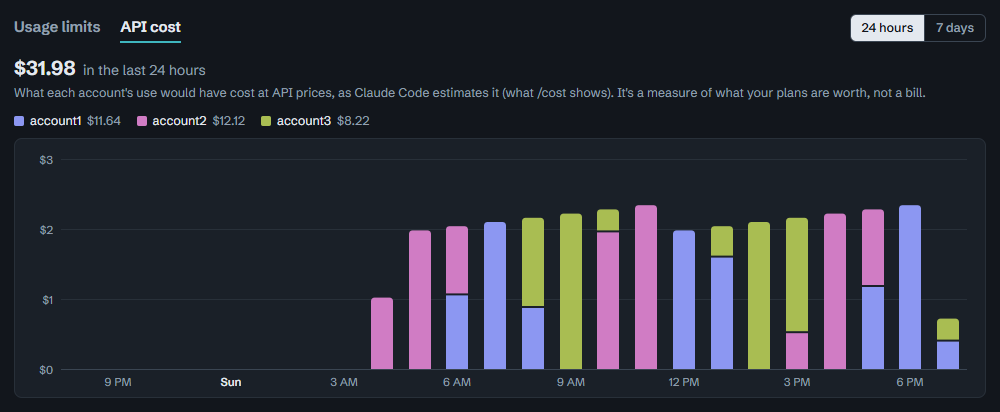
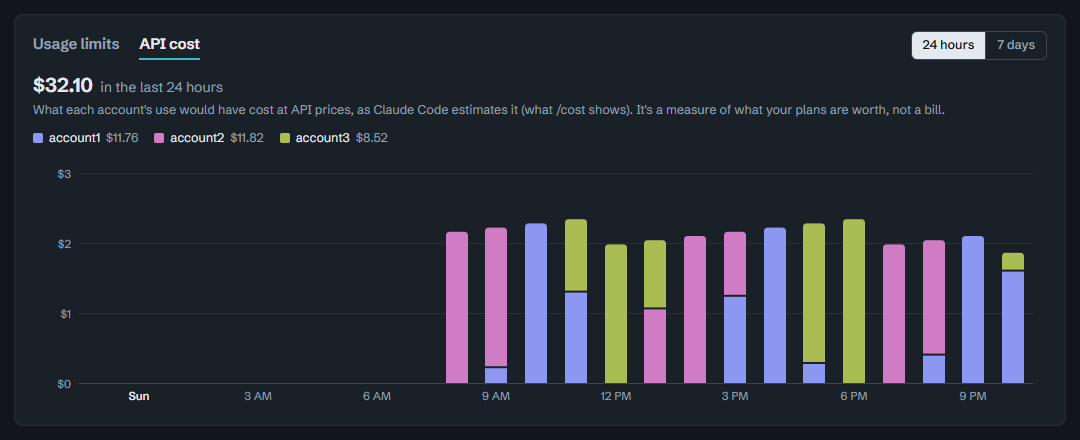
docs: describe the plan and the new layout, and retake the screenshots

diff --git a/docs/specs/2026-10-24-cc-rotate.md b/docs/specs/2026-10-24-cc-rotate.md
@@ -355,7 +355,7 @@ The snapshot lists every account in pick order with a short reason ("no weekly l
 
 What an account with a weekly limit has not used at its weekly reset is lost, and it can only be used as fast as its 5-hour windows let it, while the user works.
 So an account moves ahead (`budget::expiring`) once its budget would not fit in the time left otherwise, and not before: until then it stays in reserve for when every other account is at a limit.
-`use_expiring_weekly` (on by default) turns this on, and an account's `use_expiring` (on by default; `cc-rotate-ctl use-before-reset`, the More dialog) leaves that account out: it is never moved ahead, and its hours do not count against the others', since its budget is not planned to be spent early.
+`use_expiring_weekly` (on by default) turns this on, and an account's `use_expiring` (on by default; `cc-rotate-ctl use-before-reset`, the account page) leaves that account out: it is never moved ahead, and its hours do not count against the others', since its budget is not planned to be spent early.
 
 Per account with a weekly limit on all models, not left out, parked or active and not on hold, whose weekly window has not reset:
 
@@ -384,7 +384,7 @@ Learning reads weeks of readings, so it runs off the status line: before a swap,
 The guesses err early: a cheaper window and a slower pace mean more hours needed.
 The ranking reason says "weekly budget expires in 1d 4h with 45% left".
 
-`weekly_cap` (per account, `cc-rotate-ctl weekly-cap`, the More dialog) lowers that account's weekly thresholds below `swap_threshold_7d`, so rotation stops using it there and leaves the rest of its week to the user; budgets, and the dashboard's weekly budget left, are counted up to it.
+`weekly_cap` (per account, `cc-rotate-ctl weekly-cap`, the account page) lowers that account's weekly thresholds below `swap_threshold_7d`, so rotation stops using it there and leaves the rest of its week to the user; budgets, and the dashboard's weekly budget left, are counted up to it.
 It changes weekly windows only, not the stricter threshold of windows of an unknown kind.
 
 ### 7.5 How long the pool lasts
@@ -398,12 +398,15 @@ While an account is in use, the snapshot carries a forecast (`forecast::forecast
   There is no forecast while the use started less than 15 minutes ago, shows nothing, or the pool is already out (the dashboard says so with its own banner).
 - The pool is played forward in 5-minute steps for up to 24 hours with the real pick order (`scheduler::pick`, expiring budgets included): the account in use spends `pace * five_per_hour` 5-hour points an hour and `weekly_per_5h` weekly points for each, a limit hands over to the next pick, an account that may have a weekly limit gives way to one without as soon as one is ready (`scheduler::switch_back_target`, without the cooldown), a 5-hour window starts with its first use and resets 5 hours later, a weekly one resets a week after its reset.
 - The first step with no account left is `runs_out_at`; the earliest reset of a usable account after it is `free_again_at`.
+- Play goes on past that point, the way sessions stopped at a limit pick up again (section 21): steps with no account left use nothing, and the first account to free up takes over.
+- Every stretch an account is in use is a `Turn` in `plan`, oldest first: the account, from and to (epoch seconds), and `rests_until`, when it is usable again if the turn ended at a limit (none when it gave way to an account without a weekly limit, or the horizon ended it).
+  The first turn starts now; gaps between turns are times with no account left.
 
-The dashboard shows "At this pace: all at a limit by 3:10 PM, one frees up at 4:30 PM" (or "room for the next 24 hours"), `cc-rotate-ctl status` a line to the same effect, and the app notifies once when the pool would run out within the hour, again only after a forecast has shown room for at least two hours since, or a break from work left no forecast while the pool was not out.
+The dashboard draws the plan (section 11) under a headline ("Covered for the next 24 hours", or "Runs out around 3:10 PM" with when the first account frees up), `cc-rotate-ctl status` a line to the same effect, and the app notifies once when the pool would run out within the hour, again only after a forecast has shown room for at least two hours since, or a break from work left no forecast while the pool was not out.
 
 ### 7.6 Usage history
 
-`cc-rotate-ctl report [--weeks N] [--json]` (N from 1 to 52, default 4) and the account dialog (section 11) show how much use each account got, from the recorded samples only (`history` in ccr-core).
+`cc-rotate-ctl report [--weeks N] [--json]` (N from 1 to 52, default 4) and the account page (section 11) show how much use each account got, from the recorded samples only (`history` in ccr-core).
 Samples older than `sample_retention_days` do not count, even before the next prune removes them.
 
 - **Weekly windows:** for every all-models weekly window (`seven_day`) that reset in the last N weeks, the highest percentage over its samples, how many samples reported it, and when it reset.
@@ -511,16 +514,35 @@ The UI is TypeScript built with Vite; its charts are SVG it draws itself, with n
 Light and dark themes follow the system.
 UI copy uses no em dashes.
 
+The window has a sidebar and a page.
+The sidebar lists the pages (Overview, Activity with the swaps of the last 24 hours, API cost, Settings), then every account in the user's order: its color, label, state ("In use", "Ready", "Next", the time it is back from a limit, "Paused", "Sign in"), and a thin bar of its 5-hour window left; a + adds an account.
+Each page has a header with its title and actions, and a banner under it for a swap left unsettled, any `needs_login`, sessions waiting at a limit, `pool_exhausted` (on pages other than the overview, whose headline says it), or sign-ins ending soon.
+
+Order: dragging an account by its handle, in the sidebar or the plan, reorders the accounts; a focused handle moves with the arrow keys (Home and End for first and last), and the account page has Move up and Move down.
+The drag uses pointer events rather than HTML drag and drop, which the platform webviews handle inconsistently.
+The new order shows at once and is saved in the background, one save after another.
+
 Views:
 
-- **Pool header:** active account, the next pick with its reason, weekly headroom (summed weekly percentage remaining over usable accounts with a weekly limit) and the number without one, swaps in the last 24 hours, and a warning banner for `pool_exhausted` or any `needs_login`.
-- **Accounts:** one row per account in the user's order, with a drag handle, label, plan ("Max 5x", "Max 20x", "Team", "Team 5x", "Pro", else the raw subscription type), email, state badge, 5-hour and weekly meters with reset countdowns ("No weekly limit" when it has none), model-scoped windows, and last-sample age.
-  Dragging a handle reorders the accounts; a focused handle moves with the arrow keys (Home and End for first and last), and the account dialog has Move up and Move down.
-  The drag uses pointer events rather than HTML drag and drop, which the platform webviews handle inconsistently.
-  Row actions: Use now, Pause or Resume, Check usage, Sign in again, the weekly limit override (detect, has one, none), Remove.
-  Each row says where its latest reading came from ("updated 5m ago", "updated 5m ago from work", "checked 5m ago").
-  The account dialog shows **Recent weeks** (section 7.6), newest first: the highest usage of the last 4 weekly windows that closed ("34%, 12%, 50%"), or for an account without a weekly limit, how many 5-hour windows reached the limit in each of the last 4 full calendar weeks ("3 of 12, 9 of 9"); thin entries are dimmed and say why in a tooltip.
-  The read-only `usage_history` command reads it when the dialog opens, so the snapshot stays as cheap as before.
+- **Overview:** the active account and since when in the header, with Swap now and Add account.
+  A headline from the forecast (section 7.5): "Covered for the next 24 hours", "Runs out around 3:10 PM", "Every account is at a limit", "Using main" while no pace is known yet, or "No account in use"; under it, in a sentence or two, when the active account reaches its swap point and which accounts take turns after it.
+  Then the **plan**: the 12 hours from the start of the current hour, one row per account in the user's order.
+  A row has a drag handle, the account's color, label and plan ("Max 5x", "Max 20x", "Team", "Team 5x", "Pro", else the raw subscription type), a state line ("In use, 8% of 5 hours used", "Back 1:35 AM", "Ready, 9% of its week used", "Next", "Paused", "Signed out"), and its lane.
+  The lane draws the forecast's turns: the active account's as a solid bar from when it was swapped in, later ones as tinted bars with their times ("1:06 AM to 3:46 AM"), and each wait for a limit to reset as a hatched bar ("back at 3:25 AM"); an account at a limit now is hatched until it is usable again.
+  Each bar shows the longest label that fits it, measured after layout and again when the window is resized.
+  A line marks now, hour lines run behind the lanes, and a band across every lane marks a stretch with no account left.
+  A lane with nothing in it says why: not needed before the end of the plan, paused, signed out, or the reason it is not available.
+  Without a forecast, the active account's bar runs from when it was swapped in to now, and accounts at a limit are hatched until they are back.
+  Rows offer Use now (on hover), Resume, or Sign in; clicking an account opens its page.
+  Under the plan: a key to the bars, how cc-rotate uses the order as the settings make it, and the weekly budget left (summed weekly percentage remaining over usable accounts with a weekly limit, in accounts).
+  Then the charts, and the latest activity with a link to the Activity page.
+- **Account page:** the label, plan, state and email in the header, with Use now, Pause or Resume, Check usage, and Sign in again.
+  The 5-hour and weekly meters, each with the swap threshold marked and when it resets ("No weekly limit" when it has none), and model-scoped windows.
+  Details: where its latest reading came from ("updated 5m ago", "updated 5m ago from work", "checked 5m ago"), organization, **Recent weeks**, **API value**, extra usage, its place in the user's order with Move up and Move down, its place in the pick order with the reason, when its login was updated and its sign-in ends, its usage checks, and its warm-ups (section 23).
+  **Recent weeks** (section 7.6), newest first: the highest usage of the last 4 weekly windows that closed ("34%, 12%, 50%"), or for an account without a weekly limit, how many 5-hour windows reached the limit in each of the last 4 full calendar weeks ("3 of 12, 9 of 9"); thin entries are dimmed and say why in a tooltip.
+  The read-only `usage_history` command reads it when the page opens, so the snapshot stays as cheap as before.
+  Its settings: label, the weekly limit override (detect, has one, none; saved when picked), the weekly cap, use before reset, keep the 5-hour window running, and Remove account (asked twice, and not for the active account).
+  The settings are built when the page opens, so a refresh never undoes what is being typed.
 - **Charts:** a panel with two tabs, **Usage limits** and **API cost**, each over the last 24 hours or 7 days.
   Each says in a line what it shows, has a legend naming every account by its color, and shows the values under the pointer in a tooltip.
   - **Usage limits:** how much of each account's weekly or 5-hour limit was used, one stepped line per account (0 to 100%).
@@ -534,9 +556,10 @@ Views:
   - **API cost:** what each account's use would have cost at API prices (section 22.1), as bars stacked per account: one per hour over the last 24 hours (the current hour so far included), one per local day over the last 7 days (today so far included).
     It leads with the period's total ("$32.34 in the last 24 hours") and the legend gives each account's share; with nothing counted in the period it says so instead of drawing empty bars.
     The read-only `costs` command returns the hourly buckets (`account_costs`) from the hour holding a given time on; an hour's cost goes to the day its hour starts in.
-- **Events:** filterable log of swaps, skips, logins, syncs and errors.
+- **API cost page:** the API cost chart alone, and a table of each account's API value over the last 24 hours, 7 days and 30 days, with the totals.
+- **Activity:** the log of swaps, logins, problems and setting changes by day; renewals, skipped swaps, version notes, warm-ups and reorders show when asked for.
 - **Login:** the section 10 flow in a dialog with live status (waiting for browser, received, imported, failed).
-- **Settings:** `doctor` results (section 12), the settings, Claude Code version, and the store path.
+- **Settings:** the settings in groups (when to swap, which account comes next, usage checks and sign-ins, start at sign-in), `doctor` results (section 12), the app and Claude Code versions, and the profile and data folders.
 
 ### 11.1 In the terminal
 
@@ -878,7 +901,7 @@ The account is:
 
 A process's first total counts whole only when its session was never seen and has run under a minute (`total_duration_ms`); otherwise it is only where counting starts, since the process carries what the session spent before (resumed or forked, with the total and run time it had, or running before cc-rotate counted).
 A total below the last one (`/login`) is also only where counting goes on from.
-`history` sums the buckets per calendar week (`api_value_usd`); `cc-rotate-ctl report` prints the current week and the period, and the app's More dialog the last 4 weeks.
+`history` sums the buckets per calendar week (`api_value_usd`); `cc-rotate-ctl report` prints the current week and the period, and the app's account page the last 4 weeks.
 The app's **API cost** chart (section 11) shows the buckets themselves, per hour over the last 24 hours and per day over the last 7, stacked per account.
 These tables, with `session_processes` and `session_readings`, are pruned with the samples (`sample_retention_days`).
 Removing an account removes its `account_costs` rows with it, so its past API value is gone from the report and the charts.
@@ -887,7 +910,7 @@ Removing an account removes its `account_costs` rows with it, so its past API va
 
 A usage report's `extra_usage` (F17's body) has `is_enabled` (false while extra usage cannot cover requests: off, or its monthly limit reached), `monthly_limit`, `used_credits` and `utilization`, amounts in minor units of `currency` (cents for USD), as Claude Code's own schema documents.
 Every report cc-rotate reads (a usage check, a confirmation, another profile's cache, sections 9.1 and 20) records it per account (`extra_usage`), a newer one replacing an older one.
-`status`, the snapshot and the More dialog show it.
+`status`, the snapshot and the account page show it.
 
 The account in use runs on paid extra usage when the scheduler picks no other account, a limit that applies to it is used up (at 99.5% or more, not merely past cc-rotate's threshold), and its latest report says extra usage is on.
 That report can be old, since the account in use is only read by a confirmation (section 20.4): when it is older than `usage_check_max_age_s`, the status line asks for a confirmation (at most every 10 minutes, with usage checks on) in place of a swap that has nowhere to go, though never of a swap away from paying, and the warning says when it was read.
@@ -900,7 +923,7 @@ An account whose extra usage was never read is not taken for one without it.
 
 A 5-hour window starts at an account's first request, rounded down to 10 minutes, and resets 5 hours later (section 7.2).
 An account with no window running starts its 5 hours only when rotation reaches it, so it is ready again later than it would be with a window that started earlier.
-For accounts the user opted in (`keep_running` on `accounts`, schema 8, off by default; the account's More dialog, `cc-rotate-ctl keep-running`), the app starts the next window as soon as the last one ends while the account is not in use.
+For accounts the user opted in (`keep_running` on `accounts`, schema 8, off by default; the account page, `cc-rotate-ctl keep-running`), the app starts the next window as soon as the last one ends while the account is not in use.
 Simulated over 28 days of bursty use, starting every account's window at its reset served as much as a schedule that knew the future, 1 to 7 points more of the demand than letting windows start with use, and only when demand exceeded what the accounts give; with room to spare it changes nothing.
 Running windows go first in the pick order (section 7.2), so these accounts are used first.
 
@@ -917,7 +940,7 @@ A warm-up (`usage_check::warm_up`) is a usage check (20.1) with one more run bef
 The prompt's JSON result decides what happened:
 
 - Another model in `modelUsage`, more than one turn, or `total_cost_usd` above `WARM_MAX_COST_USD` ($0.02): it did not do what was asked.
-  Warm-ups stop (`warm_ups_blocked` in `meta`, an `error` event) until the user starts them again: **Start again** in an opted-in account's More dialog, which says why they stopped, or turning `keep_running` on for an account; the window it started still counts.
+  Warm-ups stop (`warm_ups_blocked` in `meta`, an `error` event) until the user starts them again: **Start again** on an opted-in account's page, which says why they stopped, or turning `keep_running` on for an account; the window it started still counts.
 - An error result or no turn: it did not go through (the account at a limit, a network or login problem), and `warm_problem` says why.
 - Otherwise it went through: `warmed_at` (the time the prompt returned, so a window it started is never thought to end early) is recorded and a `warm_up` event (routine in the activity list) carries the cost.
 - `claude` not found counts as not going through, so it is retried later rather than every minute.
@@ -943,5 +966,5 @@ Only the account in use is never warmed: it starts its own window as it is used.
 
 - While warm-ups run (`usage_check::warm_ups_paused` says none of them is stopped), the forecast (7.5) gives an opted-in account that is not in use or held back a new window as soon as its window ends, and one at once when none runs.
 - `doctor` lists the opted-in accounts, when a warm-up last started a window, and warns while warm-ups are stopped or paused (usage checks off or stopped), and for an account whose last warm-up, in the last 6 hours, did not go through.
-- The account dialog shows when a warm-up last started the account's window, or why the last one in the last 6 hours failed, and why warm-ups are stopped or paused.
+- The account page shows when a warm-up last started the account's window, or why the last one in the last 6 hours failed, and why warm-ups are stopped or paused.
 - The forecast leaves out an account another limit keeps out of use, as warm-ups do; it cannot tell whether the app runs.

diff --git a/README.md b/README.md
@@ -8,7 +8,7 @@ Because every session lives in one profile, sessions can see and message each ot
 
 <picture>
   <source media="(prefers-color-scheme: dark)" srcset="docs/screenshot-dark.png">
-  <img alt="The cc-rotate dashboard" src="docs/screenshot.png">
+  <img alt="The cc-rotate app: a sidebar of accounts beside the plan for the next 12 hours, one row per account showing when it is in use, when it takes over and when it is back from a limit" src="docs/screenshot.png">
 </picture>
 
 > **Unofficial.** cc-rotate is a community project and is not affiliated with or endorsed by Anthropic.
@@ -138,13 +138,15 @@ Start it in a project folder, not your home folder.
 Claude Code does not run status lines in the home folder (trust there lasts for one run and is never saved), so cc-rotate cannot see usage or swap accounts for a session started there.
 The `cc-rotate` command warns you, and `cc-rotate-ctl doctor` lists any such session.
 
-The desktop app shows every account with its plan, how much of each limit is used, when each resets, which account is used next and why, usage over the last day or week with swaps marked, and an activity log.
+The desktop app opens on the plan for the next 12 hours: one row per account, showing which account is in use, when each one takes over at your current pace, and how long the ones at a limit wait for it to reset.
+A sidebar lists your accounts in your order, and each one opens a page with how much of each limit it has used, when each resets, why it is where it is in the pick order, and its own settings.
+Below the plan are charts of usage over the last day or week with swaps marked, and of API cost, then the latest activity.
 It lives in the tray, starts when you sign in to your computer (you can turn that off in **Settings**), and sends a notification when an account is signed out, when no account is left to swap to, and when an account is ready again after that.
 
 ### Which account is used next
 
 Every account has a place in your order.
-Drag the handles in the app's **Accounts** table to change it, or use the arrow keys on a focused handle, or `cc-rotate-ctl order` and `cc-rotate-ctl move`.
+Drag an account by its handle in the app's sidebar or plan to change it, use the arrow keys on a focused handle, use **Move up** and **Move down** on the account's page, or run `cc-rotate-ctl order` and `cc-rotate-ctl move`.
 New accounts go to the end.
 After an upgrade from an older cc-rotate, accounts that had the same priority share a place until you reorder them.
 
@@ -164,7 +166,7 @@ How much you can use over a day stays the same, and there are fewer swaps.
 
 cc-rotate finds out whether an account has a weekly limit from the usage Claude Code reports: an account that reported a weekly limit has one, and an account that went through two separate 5-hour windows in the last 8 days without ever reporting one has none.
 Until then it is not known yet.
-If that guess is wrong, set it yourself in the account's **More** dialog or with `cc-rotate-ctl weekly-limit <label> yes|no` (`auto` goes back to detecting it).
+If that guess is wrong, set it yourself on the account's page in the app or with `cc-rotate-ctl weekly-limit <label> yes|no` (`auto` goes back to detecting it).
 
 The account in use is kept until it reaches a limit, with one exception.
 While the account in use has a weekly limit, or it is not known yet whether it has one, cc-rotate swaps back to an account without a weekly limit as soon as one is ready again.
@@ -184,7 +186,7 @@ cc-rotate knows how much of each limit an account has used from four places: the
 Usage checks read the accounts that are not in use:
 - While the app runs, it checks one account a minute that has not been read for `usage_check_interval_s` (an hour by default), in the order the accounts would be used.
 - Before a swap uses an account whose usage data is older than `usage_check_max_age_s` (15 minutes), the swap checks it first and picks again if it turns out to be used up, up to three accounts per swap.
-- `cc-rotate-ctl check` checks every account that is not in use now, and the app's **More** dialog has **Check usage** for one.
+- `cc-rotate-ctl check` checks every account that is not in use now, and an account's page in the app has **Check usage** for that account.
 - Anthropic only answers a few usage requests per login in a while, and asks to wait, sometimes up to an hour, when there were too many. cc-rotate does not check that account again before then.
 - If Claude Code renews the account's login during a check, cc-rotate stores the renewed login, as it does for the account in use.
 - Paused accounts are only checked when you ask, and `cc-rotate-ctl config usage_checks false` turns the automatic checks off.
@@ -211,9 +213,9 @@ The accounts are taken in the order their weeks reset, since only one is in use 
 It learns from your usage how much of the weekly budget a 5-hour window costs on each account, how fast you use an account, and when you usually work.
 Until it has seen enough, it assumes a full 5-hour window costs a tenth of the week and that you work 10 hours a day, which errs on the side of starting early.
 Turn it off with `cc-rotate-ctl config use_expiring_weekly false`, or in **Settings**.
-To leave out one account, untick **Use its weekly budget before it resets** in its **More** dialog, or run `cc-rotate-ctl use-before-reset <label> no`: it's then used like any other account.
+To leave out one account, untick **Use its weekly budget before it resets** on its page in the app, or run `cc-rotate-ctl use-before-reset <label> no`: it's then used like any other account.
 
-To keep part of an account's week for yourself, set where rotation stops using it, in its **More** dialog or with `cc-rotate-ctl weekly-cap <label> 70` (`off` goes back to the setting).
+To keep part of an account's week for yourself, set where rotation stops using it, on its page in the app or with `cc-rotate-ctl weekly-cap <label> 70` (`off` goes back to the setting).
 cc-rotate then treats 70% as that account's weekly limit, and only plans to use its budget up to there.
 
 ### Keeping 5-hour windows running
@@ -229,15 +231,18 @@ Each request costs about a tenth of a cent at API prices (a few thousand cached 
 This is the one case where cc-rotate has Claude Code send a prompt you didn't type, so it's off until you turn it on.
 Check that requests like this are fine under your plan's terms before you do.
 
-- Turn it on for an account with **Keep its 5-hour window running** in its **More** dialog, or with `cc-rotate-ctl keep-running <label> yes`.
+- Turn it on for an account with **Keep its 5-hour window running** on its page in the app, or with `cc-rotate-ctl keep-running <label> yes`.
 - `cc-rotate-ctl warm-up <label>` starts an account's window once, now.
 - The desktop app sends the requests, so it has to be running, with usage checks on.
 - It skips an account that is in use, paused, on hold, or at a weekly limit.
-- If a request ever uses another model, takes more than one turn or costs more than 2 cents, cc-rotate stops sending them and says so in the activity log and in the account's **More** dialog, until you click **Start again** there (or run `cc-rotate-ctl keep-running <label> yes`).
+- If a request ever uses another model, takes more than one turn or costs more than 2 cents, cc-rotate stops sending them and says so in the activity log and on the account's page, until you click **Start again** there (or run `cc-rotate-ctl keep-running <label> yes`).
 
 ### How long your accounts last
 
-While you work, the dashboard shows how long your accounts last at your current pace ("all at a limit by 3:10 PM, one frees up at 4:30 PM"), and `cc-rotate-ctl status` shows the same.
+While you work, the app's overview plays your accounts forward at your current pace and draws the result as its plan.
+Its headline says whether they last: "Covered for the next 24 hours", or "Runs out around 3:10 PM" with when the first one frees up again.
+The plan carries on past that point, the way sessions stopped at a limit pick up again when an account frees up, and marks the stretch with no account left.
+`cc-rotate-ctl status` shows the same in a line.
 The app sends a notification once when they would all be at a limit within the hour.
 
 ### Which accounts earn their keep
@@ -255,8 +260,9 @@ It only reports what cc-rotate recorded, and usage history is kept for `sample_r
 Removing an account also removes the API value recorded for it.
 A week with no readings shows no numbers.
 A week with few readings is marked, since the account may have used more than cc-rotate saw.
-The app shows the same numbers for the last 4 weeks as **Recent weeks** and **API value** in the account's **More** dialog.
-Its **API cost** chart, a tab next to **Usage limits** at the bottom of the dashboard, shows the API value of the last 24 hours by hour or of the last 7 days by day, stacked per account, with the total for the period.
+The app shows the same numbers for the last 4 weeks as **Recent weeks** and **API value** on each account's page.
+Its **API cost** chart, a tab next to **Usage limits** below the plan, shows the API value of the last 24 hours by hour or of the last 7 days by day, stacked per account, with the total for the period.
+The **API cost** page in the sidebar has the same chart and each account's total over the last 24 hours, 7 days and 30 days.
 
 <picture>
   <source media="(prefers-color-scheme: dark)" srcset="docs/charts-dark.png">
@@ -267,7 +273,7 @@ Its **API cost** chart, a tab next to **Usage limits** at the bottom of the dash
 
 An account with extra usage turned on on claude.ai keeps working past its plan's limits, and bills the card on file.
 cc-rotate swaps before a limit, so that only happens once every account is at a limit.
-Each account's **More** dialog shows whether extra usage is on and how much it spent this month, from the account's latest usage report, and `cc-rotate-ctl status` lists the accounts that have it on.
+Each account's page in the app shows whether extra usage is on and how much it spent this month, from the account's latest usage report, and `cc-rotate-ctl status` lists the accounts that have it on.
 
 - When sessions start running on paid extra usage, the app sends a notification ("Sessions are using paid extra usage").
 - To have them wait for the next reset instead, turn on **When every account is at a limit, wait instead of paying for extra usage** in **Settings** (`avoid_extra_usage`).
